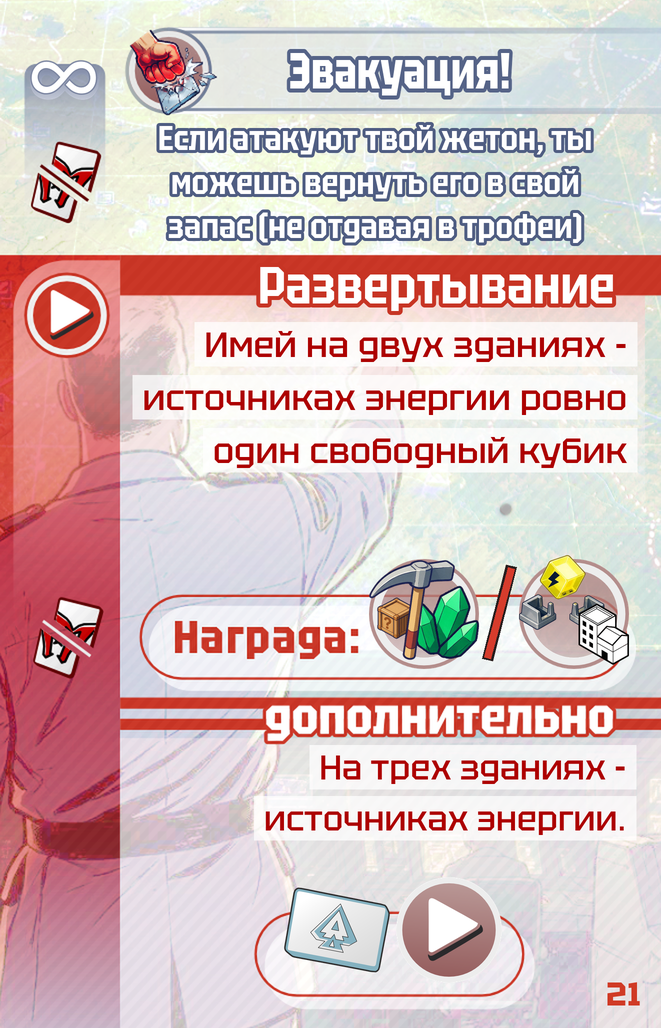
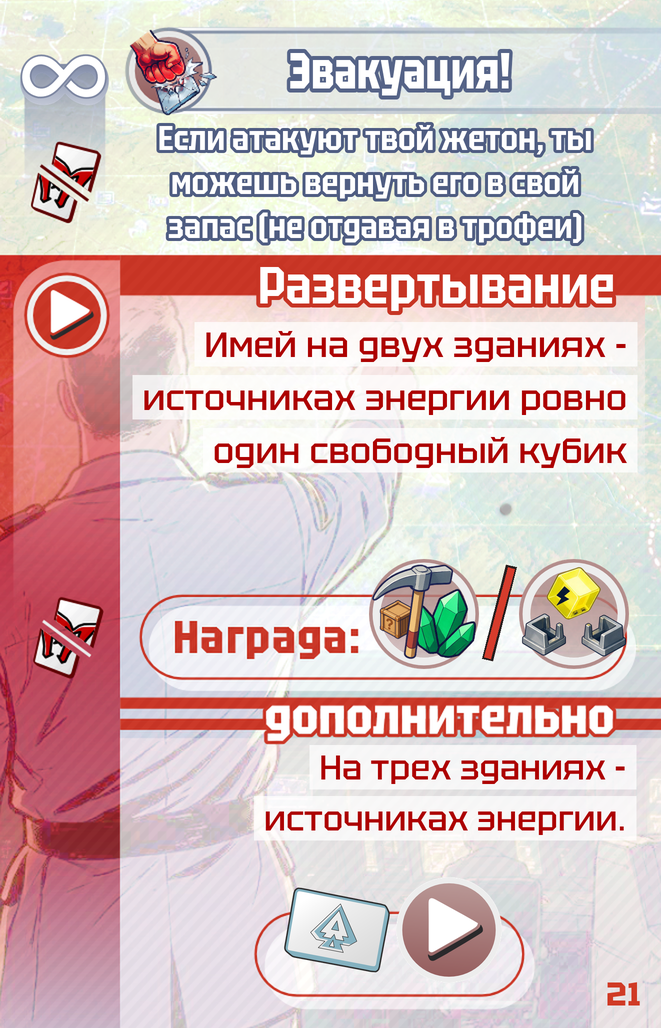
Награда заданий — целое действие-развилка (11 карт): в кружке иконка развилки, ветку и «построить» игрок выбирает сам; «Кристальные лаборатории»: на Рынке и в Науке трофеи и келемий заменяют друг друга (движок и карта); ячейка «Место для контейнера» по печати (точки, иконка № 79), ∞ во всю ширину сл

Changed region(s): [[0.5446, 0.5292, 0.7262, 0.6537], [0.7867, 0.5292, 0.9682, 0.6537], [0.0303, 0.0311, 0.1815, 0.0934]]

diff --git a/engine/src/main/java/kelium/engine/Actions.java b/engine/src/main/java/kelium/engine/Actions.java
@@ -3426,6 +3426,30 @@ public final class Actions {
             super(state);
         }
 
+        /**
+         * СКОЛЬКО КЕЛЕМИЯ ИГРОК МОЖЕТ СДАТЬ НА РЫНКЕ. С «Кристальными
+         * лабораториями» (арсенал 7.3.0) трофеи идут вместо келемия: на Рынке и
+         * в Науке это один ресурс.
+         */
+        static int келемийНаРынке(GameState s, PlayerState p) {
+            int n = p.resources.kelium();
+            if (Passives.hasPassive(s, p.seat, "labs_kelium_trophy_swap")) {
+                n += p.resources.trophy();
+            }
+            return n;
+        }
+
+        /** Заплатить келемий на рынке: сперва келемием, недостачу — трофеями (с картой). */
+        static void платитьНаРынке(GameState s, PlayerState p, int n) {
+            int кел = Math.min(n, p.resources.kelium());
+            if (кел > 0) {
+                p.resources.pay(Resource.KELIUM, кел);
+            }
+            if (n > кел) {
+                p.resources.pay(Resource.TROPHY, n - кел);
+            }
+        }
+
         @Override public String name() { return "market"; }
         @Override public Order order() { return Order.ACQUIRE; }
         @Override public boolean implemented() { return true; }
@@ -3443,7 +3467,7 @@ public final class Actions {
             // цикл вовсе. Нулевая ступень — вход в цикл: Рынок без сделки
             // приносит её монеты. 0 — прежний рынок.
             int нулевая = ((Number) rs.get("market.zero_kelium_coin", 0)).intValue();
-            if (player.resources.kelium() < 1) {
+            if (келемийНаРынке(s, player) < 1) {
                 if (нулевая > 0) {
                     player.resources.add(Resource.COIN, нулевая);
                     return ActionResult.ok("market: -0 kelium -> +" + нулевая + " coin",
@@ -3498,13 +3522,13 @@ public final class Actions {
             boolean обменРаз = Boolean.TRUE.equals(
                 rs.get("market.exchange_once_per_action", Boolean.FALSE));
             java.util.Set<String> взятыеОбмены = new java.util.HashSet<>();
-            while (player.resources.kelium() >= 1) {
+            while (келемийНаРынке(s, player) >= 1) {
                 List<Choice> opts = new ArrayList<>();
                 // ---- печатные обмены планшета рынка ----
                 if (наКоин && !(обменРаз && взятыеОбмены.contains("coin"))) {
                     opts.add(new Choice("market_rate", rate("coin", coinRate),
                         "1 КЕЛ -> " + coinRate + " МОН"));
-                    if (pairBonus > 0 && player.resources.kelium() >= 2) {
+                    if (pairBonus > 0 && келемийНаРынке(s, player) >= 2) {
                         Map<String, Object> pair = rate("coin", 2 * coinRate + pairBonus);
                         pair.put("kelium", 2);
                         opts.add(new Choice("market_rate", pair,
@@ -3609,7 +3633,7 @@ public final class Actions {
                     keliumCost = 0;
                 }
                 if (keliumCost > 0) {
-                    player.resources.pay(Resource.KELIUM, keliumCost);
+                    платитьНаРынке(s, player, keliumCost);
                 }
                 keliumSpent += keliumCost;
                 deals++;
@@ -4618,7 +4642,7 @@ public final class Actions {
             // келемия (финальный планшет 25.09.2026); келемий берут лишь треки.
             // «КРИСТАЛЬНЫЕ ЛАБОРАТОРИИ» 7.3.0: обмены можно оплачивать келемием
             boolean обменыЗаКелемий = Passives.hasPassive(state, player.seat,
-                "sci_exchange_pay_kelium");
+                "labs_kelium_trophy_swap");
             int pool = сколькоМожемЗаплатить(player)
                 - (наукаЗаКелемий() && !обменыЗаКелемий ? player.resources.kelium() : 0);
             List<Choice> opts = new ArrayList<>();

diff --git a/cards/src/main/java/kelium/cards/objectives/ЗаданияТаблицы.java b/cards/src/main/java/kelium/cards/objectives/ЗаданияТаблицы.java
@@ -166,7 +166,7 @@ public final class ЗаданияТаблицы {
             return печатное("Обеспечение", СОСТОЯНИЕ,
                 "Накопи не менее 10 монет",
                 null,
-                Награда.выбор("science", "build_military"), Награда.нет(),
+                Награда.выбор("develop", "supply"), Награда.нет(),
                 Утиль.АТАКА_ДВУМЯ);
         }
 
@@ -217,7 +217,7 @@ public final class ЗаданияТаблицы {
             return печатное("Встреть стенкой", СОСТОЯНИЕ,
                 "Имей своё здание, стенка которого обращена к гексу с войсками врага",
                 "две такие стенки на разных зданиях.",
-                Награда.выбор("mining", "energy_swap"),
+                Награда.выбор("extract", "power"),
                 Награда.трофеи(1).иМонеты(2),
                 Утиль.КОНТРАТАКА);
         }
@@ -350,7 +350,7 @@ public final class ЗаданияТаблицы {
             return печатное("Разрядка", ЖЕРТВА,
                 "Сдай в общий запас 2 боеприпаса",
                 null,
-                Награда.выбор("mining", "build_miner"), Награда.нет(),
+                Награда.действием("extract"), Награда.нет(),
                 Утиль.АТАКА_ДВУМЯ);
         }
 
@@ -725,7 +725,7 @@ public final class ЗаданияТаблицы {
             return печатное("Диверсия", ПРОИСШЕСТВИЕ,
                 "В ЭТОТ ХОД уничтожь энергостанцию врага",
                 "это была энергостанция 3 или 4 уровня.",
-                Награда.выбор("market", "build_plant"),
+                Награда.выбор("develop", "power"),
                 Награда.позолотой(),
                 Утиль.МОДУЛИ);
         }
@@ -936,7 +936,7 @@ public final class ЗаданияТаблицы {
             return печатное("Растяжка", СОСТОЯНИЕ,
                 "Займи войсками 4 гекса на поле",
                 "на 2 из них есть здания врага.",
-                Награда.выбор("movement", "build_miner"),
+                Награда.выбор("command", "extract"),
                 Награда.монеты(3).иСпец(1),
                 Утиль.РИКОШЕТ);
         }

diff --git a/cards/src/main/java/kelium/cards/objectives/ЗаданияЭкономикиII.java b/cards/src/main/java/kelium/cards/objectives/ЗаданияЭкономикиII.java
@@ -32,7 +32,7 @@ public final class ЗаданияЭкономикиII {
             return печатное("Строй крупно", ПРОИСШЕСТВИЕ,
                 "В ЭТОТ ХОД построй добытчик или энергостанцию 3-го или 4-го уровня",
                 "на гексе, соседнем с гексом, где есть войска врага.",
-                Награда.выбор("movement", "market"),
+                Награда.выбор("command", "develop"),
                 Награда.модуль("attack").иСпец(1),
                 Утиль.ЗАГРАДИТЕЛЬНЫЙ_ОГОНЬ);
         }
@@ -195,7 +195,7 @@ public final class ЗаданияЭкономикиII {
             return печатное("Коммутация", СОСТОЯНИЕ,
                 "Имей на двух зданиях - источниках энергии ровно один свободный кубик",
                 "На трех зданиях - источниках энергии.",
-                Награда.выбор("mining", "build_plant"),
+                Награда.выбор("extract", "power"),
                 Награда.картаАрсенала().иСпец(1),
                 Утиль.ЭВАКУАЦИЯ);
         }

diff --git a/cards/src/main/java/kelium/cards/objectives/ЗаданияВойныI.java b/cards/src/main/java/kelium/cards/objectives/ЗаданияВойныI.java
@@ -376,7 +376,7 @@ public final class ЗаданияВойныI {
             return печатное("Штаб на передовой", СОСТОЯНИЕ,
                 "Имей своё здание на гексе, соседнем с гексом, где есть здание врага",
                 "с гексом, где есть ЦУ врага",
-                Награда.выбор("assembly", "build_military"),
+                Награда.действием("supply"),
                 Награда.монеты(3).иСпец(1),
                 Утиль.ЗАКРОМА);
         }
@@ -617,7 +617,7 @@ public final class ЗаданияВойныI {
             return печатное("Осада", СОСТОЯНИЕ,
                 "Имей у себя на свалке хотя бы 1 жетон здания врага",
                 "2 жетона здания; 1 из них - энергостанция.",
-                Награда.выбор("market", "build_military"),
+                Награда.выбор("develop", "supply"),
                 Награда.модуль("assembly").иСпец(1),
                 Утиль.ЗАГРАДИТЕЛЬНЫЙ_ОГОНЬ);
         }

diff --git a/cards/src/main/java/kelium/cards/objectives/ЗаданияВойныII.java b/cards/src/main/java/kelium/cards/objectives/ЗаданияВойныII.java
@@ -157,7 +157,7 @@ public final class ЗаданияВойныII {
             return печатное("Пустой двор", СОСТОЯНИЕ,
                 "Имей свои войска на трех гексах, где нет твоих зданий",
                 "на четырех гексах.",
-                Награда.выбор("energy_swap", "build_plant"),
+                Награда.действием("power"),
                 Награда.монеты(4),
                 Утиль.АТАКА_ДВУМЯ);
         }
@@ -232,7 +232,7 @@ public final class ЗаданияВойныII {
             return печатное("Разорение", ПРОИСШЕСТВИЕ,
                 "В ЭТОТ ХОД уничтожь добытчик противника",
                 "добытчик примыкал к стартовому зарождению.",
-                Награда.выбор("energy_swap", "build_miner"),
+                Награда.выбор("power", "extract"),
                 Награда.трофеи(1).иСпец(1),
                 Утиль.ОТВЕТНЫЙ_ОГОНЬ);
         }

diff --git a/engine/src/main/java/kelium/engine/ability/Arsenal7Abilities.java b/engine/src/main/java/kelium/engine/ability/Arsenal7Abilities.java
@@ -64,8 +64,8 @@ public final class Arsenal7Abilities {
         // Обе проверяются в самом действии (Actions: обмены Науки, ветка
         // «Переложить энергию») — здесь способности только объявлены, чтобы
         // карта прошла проверку «у каждой карты живой код».
-        Abilities.register(new Метка("sci_exchange_pay_kelium",
-            "обмены Научного отдела можно оплатить келемием"));
+        Abilities.register(new Метка("labs_kelium_trophy_swap",
+            "на Рынке и в Науке трофеи и келемий заменяют друг друга"));
         Abilities.register(new Метка("coins_on_energy_cells",
             "монеты на свободных ячейках энергии до следующего хода"));
         Abilities.register(new InfantryIgnoresBuildings());
